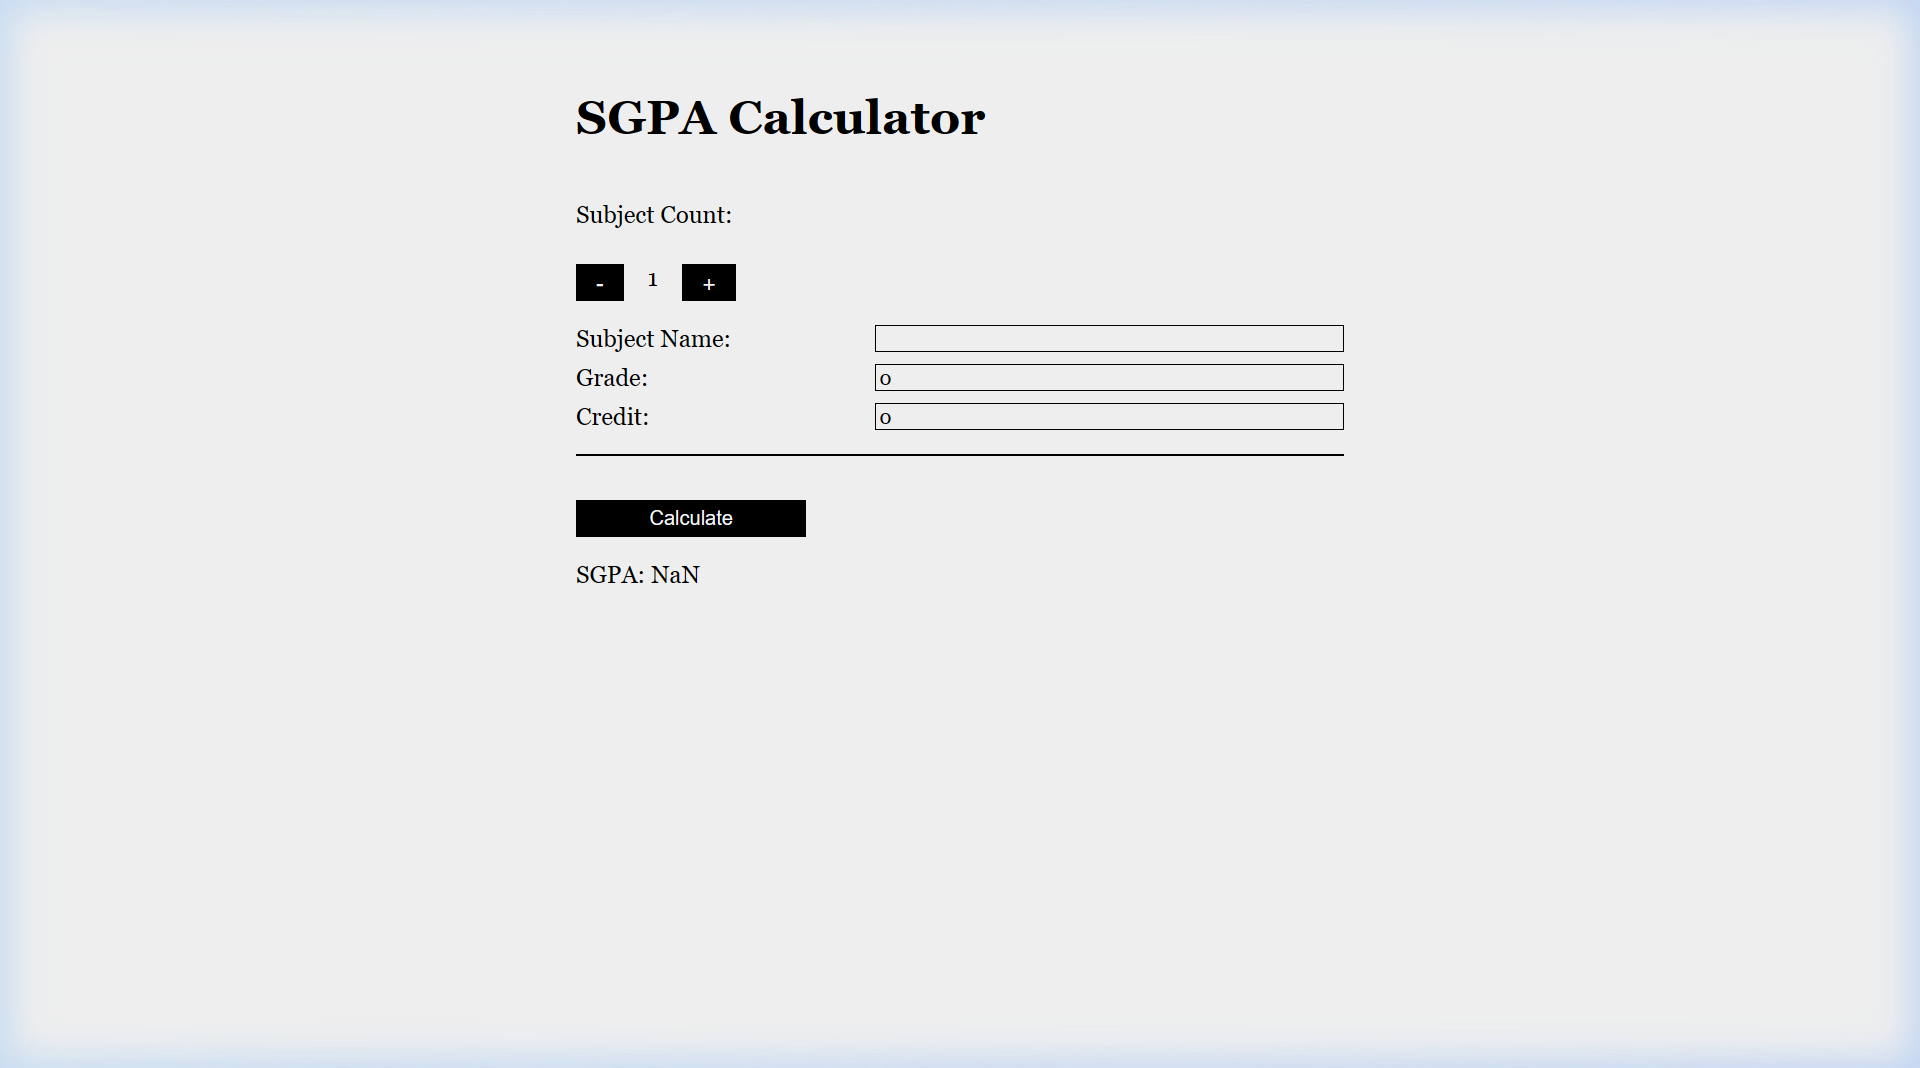
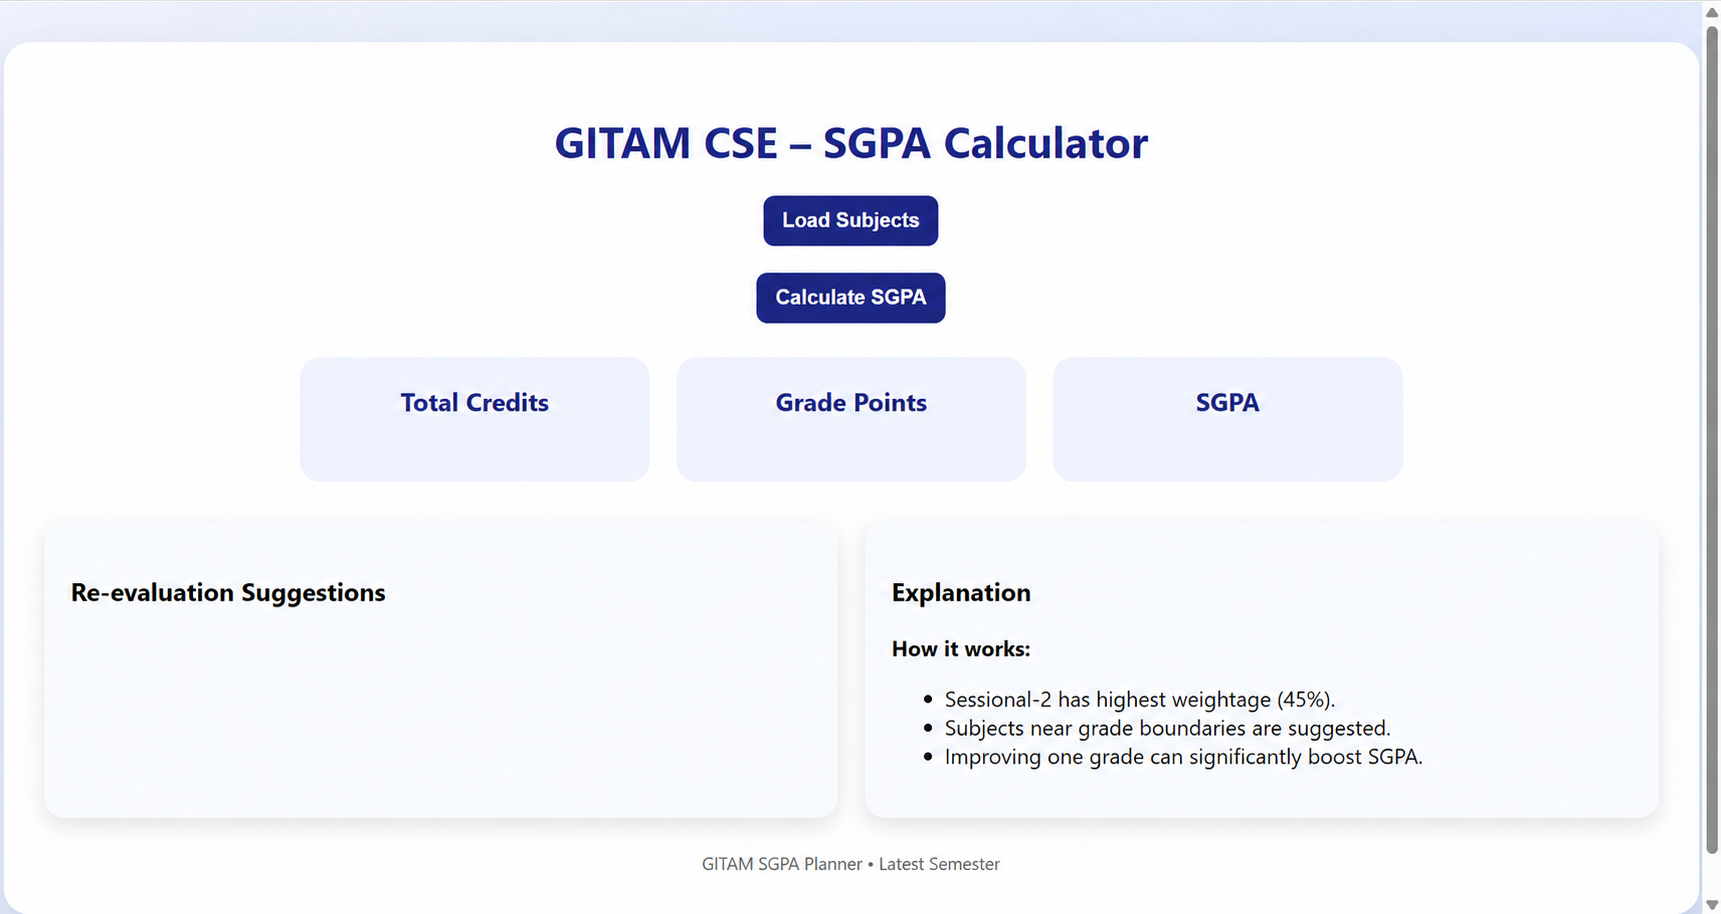
feat: add ReachInbox portfolio project

diff --git a/src/components/projects.tsx b/src/components/projects.tsx
@@ -164,10 +164,47 @@ const projects = [
     ],
     tech: ["HTML", "CSS", "JavaScript"],
     image: "/images/projects/sgpa-calculator.png",
-    liveUrl: "https://sgpa-calculator.vercel.app",
+    liveUrl: "https://my-project-beta-jade.vercel.app/",
     githubUrl: null,
-    displayUrl: "sgpa-calculator.vercel.app",
+    displayUrl: "my-project-beta-jade.vercel.app",
     accent: "#800020",
+    researchBadge: null,
+  },
+  {
+    id: "07",
+    title: "Outbox — ReachInbox",
+    category: "Email Automation · SaaS · Full-Stack Application",
+    year: "2026",
+    role: "Creator & Developer",
+    description:
+      "A full-stack email scheduling workspace built for the ReachInbox assignment. It lets teams import recipients, schedule durable email campaigns, manage sender limits, search delivery history, and receive Slack alerts when hourly sending caps are reached.",
+    highlights: [
+      "Google OAuth and protected sessions",
+      "CSV and text recipient import with validation",
+      "BullMQ and Redis delayed-job scheduling",
+      "PostgreSQL-backed campaign persistence",
+      "Per-sender hourly limits and delivery pacing",
+      "Elasticsearch delivery-history search",
+      "Slack notifications and Bull Board monitoring",
+    ],
+    tech: [
+      "TypeScript",
+      "React",
+      "Express",
+      "PostgreSQL",
+      "BullMQ",
+      "Redis",
+      "Elasticsearch",
+      "Google OAuth",
+      "Slack API",
+      "Docker",
+      "Google Cloud Run",
+    ],
+    image: "/images/projects/reachinbox-outbox.jpeg",
+    liveUrl: "https://github.com/Koushiknani24/ReachInbox",
+    githubUrl: null,
+    displayUrl: "github.com/Koushiknani24/ReachInbox",
+    accent: "#5d70f5",
     researchBadge: null,
   },
 ];
@@ -267,7 +304,7 @@ function BrowserMockup({
             }}
           >
             <ExternalLink className="w-4 h-4" />
-            Visit Live Site
+            Visit Site
           </span>
         </a>
       </div>
@@ -386,7 +423,7 @@ function CaseStudyPanel({
 
           <div>
             <h4 style={{ fontFamily: "'JetBrains Mono', monospace", fontSize: "0.55rem", letterSpacing: "0.22em", textTransform: "uppercase", color: "#c5562a", marginBottom: "0.75rem" }}>
-              04 â€” Live Project
+              04 â€” Project Link
             </h4>
             <div className="flex gap-3 flex-wrap">
               <a
@@ -396,7 +433,7 @@ function CaseStudyPanel({
                 className="inline-flex items-center gap-2"
                 style={{ padding: "0.75rem 1.75rem", borderRadius: "100px", background: project.accent, color: "#f0ebe0", fontFamily: "var(--font-inter), sans-serif", fontSize: "0.72rem", fontWeight: 600, letterSpacing: "0.07em", textTransform: "uppercase", textDecoration: "none" }}
               >
-                Visit Live Site <ArrowUpRight className="w-3.5 h-3.5" />
+                Visit Site <ArrowUpRight className="w-3.5 h-3.5" />
               </a>
               {project.githubUrl && (
                 <a
@@ -613,7 +650,7 @@ function ProjectShowcase({
                   (e.currentTarget as HTMLAnchorElement).style.boxShadow = "";
                 }}
               >
-                Live Project <ArrowUpRight className="w-3.5 h-3.5" />
+                Visit Site <ArrowUpRight className="w-3.5 h-3.5" />
               </a>
 
               {project.githubUrl && (
